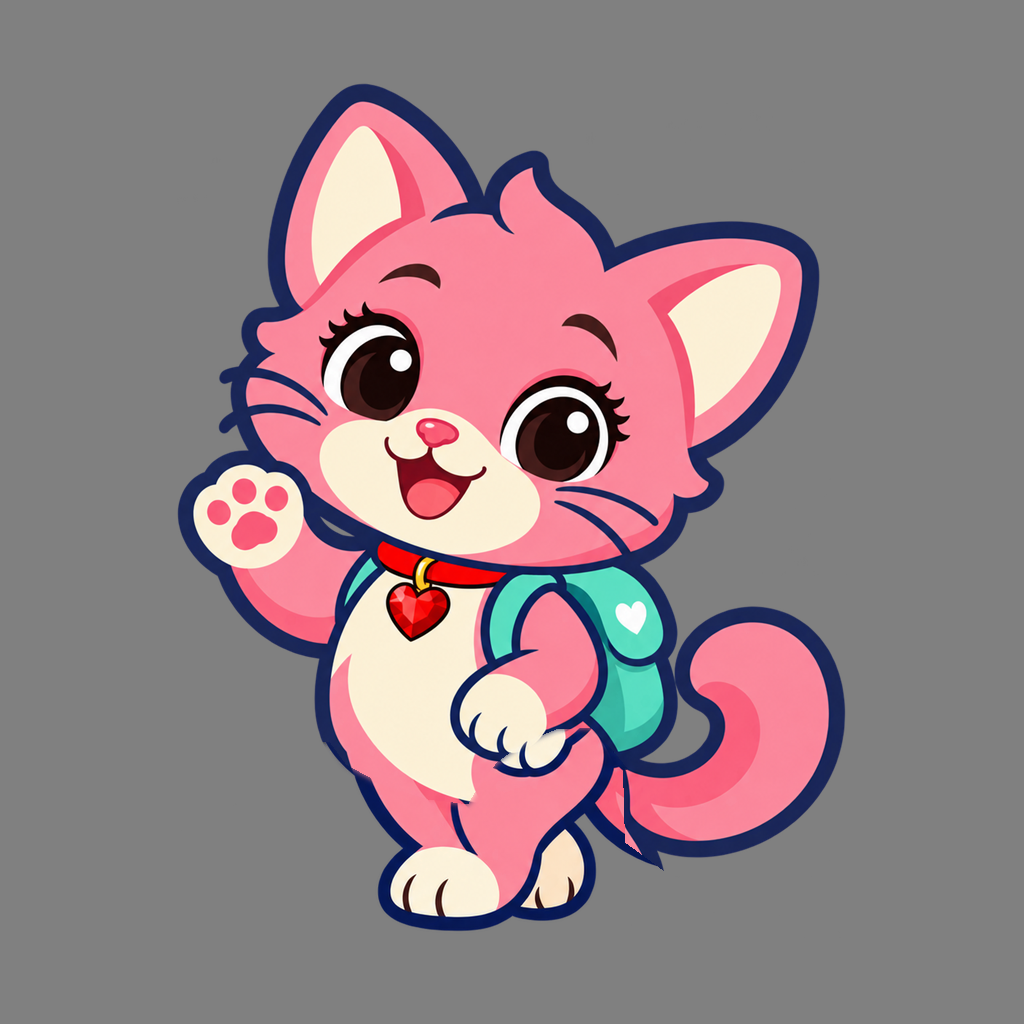
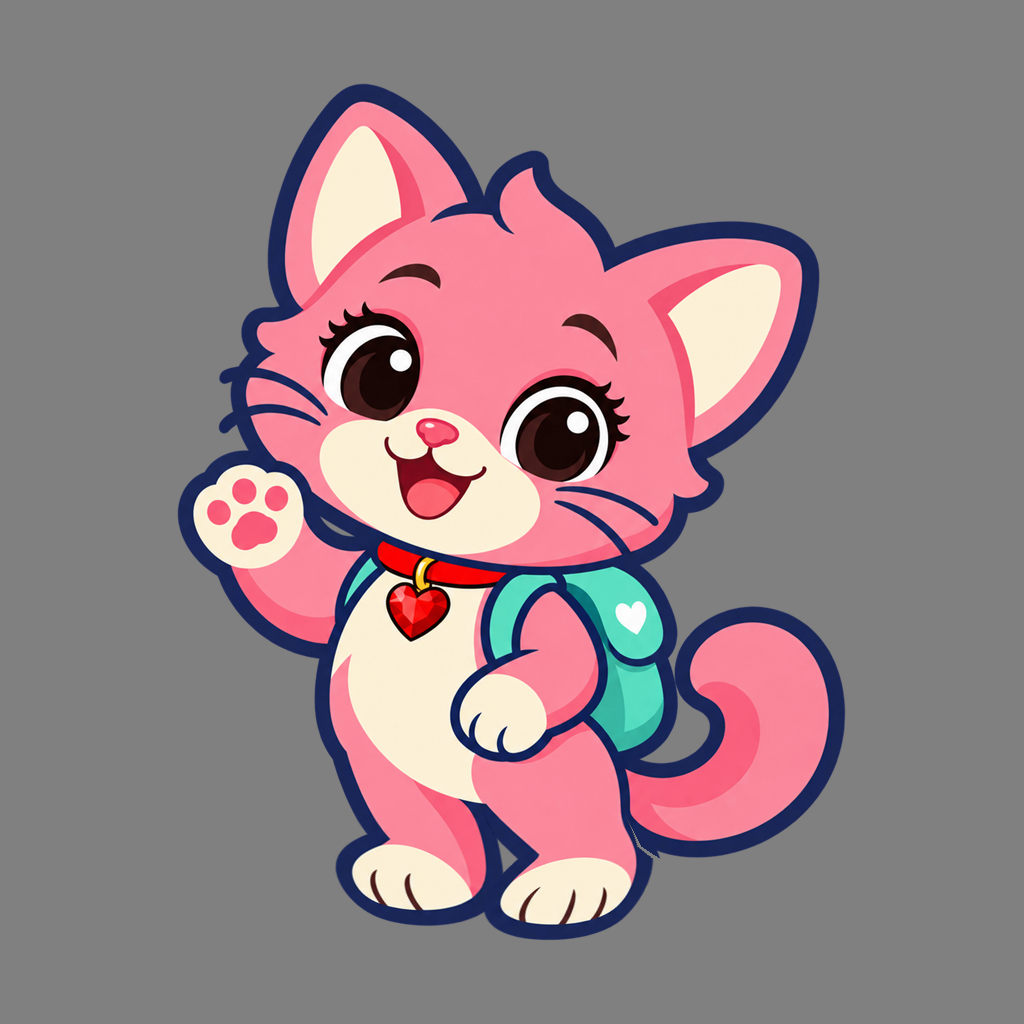
Walk-cycle frames (Codex 22) cycling while Ruby walks

Changed region(s): [[0.3125, 0.6875, 0.6562, 0.9375]]

diff --git a/js/assets.js b/js/assets.js
@@ -85,7 +85,7 @@ const ASSETS = {
   ruby_comfort: { emoji: '🐱', img: 'assets/game/ruby/ruby-comfort.webp' },
   ruby_eat: { emoji: '🐱', img: 'assets/game/ruby/ruby-eat.webp' },
   ruby_sleep: { emoji: '🐱', img: 'assets/game/ruby/ruby-sleep.webp' },
-  walk_1: { emoji: '🐱' }, walk_2: { emoji: '🐱' }, walk_3: { emoji: '🐱' }, walk_4: { emoji: '🐱' },
+  walk_1: { emoji: '🐱', img: 'assets/game/ruby/walk-1.webp' }, walk_2: { emoji: '🐱', img: 'assets/game/ruby/walk-2.webp' }, walk_3: { emoji: '🐱', img: 'assets/game/ruby/walk-3.webp' }, walk_4: { emoji: '🐱', img: 'assets/game/ruby/walk-4.webp' },
   bowl: { emoji: '🥣', img: 'assets/game/feed/bowl.webp' },
   bell: { emoji: '🔔', img: 'assets/game/feed/bell.webp' },
   ruby_house: { emoji: '🏡', img: 'assets/game/ui/ruby_house.webp' }, wardrobe: { emoji: '👗' }, room_tab: { emoji: '🛋' }, sticker_album: { emoji: '📒' },

diff --git a/js/home.js b/js/home.js
@@ -175,7 +175,7 @@ function walkRoomRuby(scene,ruby,content){
   on(scene,'pointerdown',e=>{
     if(e.button!==0||e.isPrimary===false||gesture||e.target.closest('.room-object,.room-cart'))return;
     e.preventDefault();gesture={id:e.pointerId,x:e.clientX,y:e.clientY,moved:false,ruby:!!e.target.closest('.room-ruby')};
-    scene.setPointerCapture(e.pointerId);
+    try{scene.setPointerCapture(e.pointerId)}catch(_){}
   });
   on(scene,'pointermove',e=>{if(gesture?.id===e.pointerId&&Math.hypot(e.clientX-gesture.x,e.clientY-gesture.y)>=8)gesture.moved=true});
   on(scene,'pointerup',e=>{

diff --git a/sw.js b/sw.js
@@ -1,5 +1,5 @@
 // Before every deploy run: node scripts/bump-sw.mjs
-const SW_VERSION = '20261023T064055470Z';
+const SW_VERSION = '20261023T064630345Z';
 const CACHE_PREFIX = 'ruby-pwa-';
 const CACHE_NAME = CACHE_PREFIX + SW_VERSION;
 const APP_SHELL = [

diff --git a/DECISIONS.md b/DECISIONS.md
@@ -9,10 +9,11 @@
 網站：https://stntkero.github.io/RubyGame/
 
 處理中：
-- 走路像 GIF 一樣換腳（任務 22，Codex 畫 4 張分解圖中）
+
 - 皇冠位置、圍巾像貼紙：改成「穿在露比身上」的圖層（任務 23，Codex 畫圖中）
 
 已處理：
+- 走路像 GIF 一樣換腳：4 張分解圖輪流切換，停下來換回站姿
 - 露比走路不會再走到牆上，腳一定踩在地板範圍內
 - 家具大小改成以露比為基準（床比露比大、球和盆栽比較小）
 - 碗上的圈圈只在最簡單的第一關淡淡顯示；拼圖下方多出的條紋已移除
